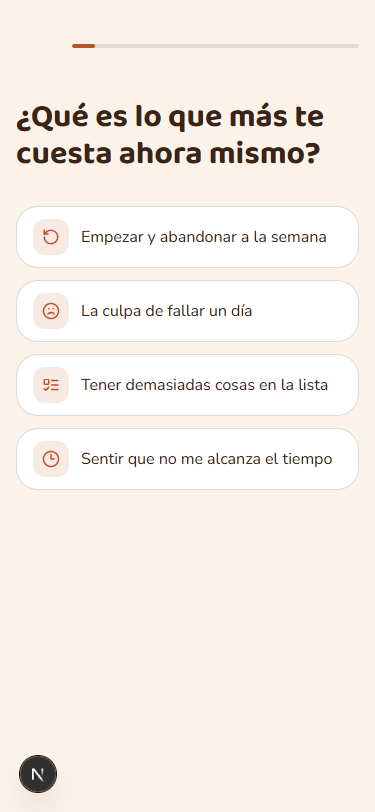
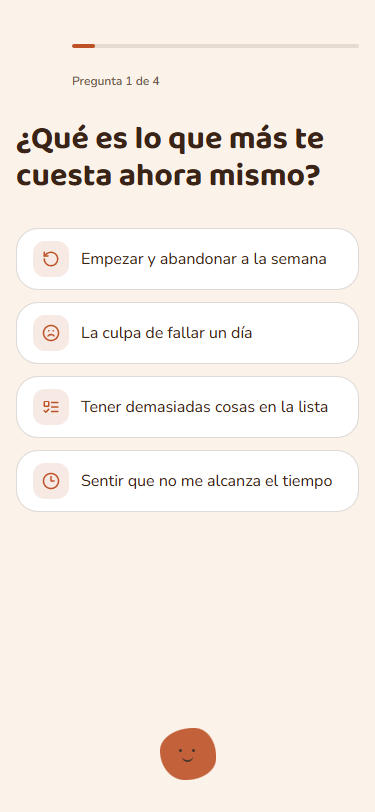
Corrige defectos del revisor: reduced-motion, mascota, copy del paywall
Agrega useReducedMotion a todas las animaciones del funnel (Chip, BotonPrimario,
PasoTransicion, BarraProgreso), incorpora la mascota blob de FICHA-ARTE.md al
onboarding y al paywall (antes ausente), agrega contador "Pregunta N de 4",
profundidad de fondo en FunnelShell, y reescribe el copy de features del paywall
con el lenguaje literal de FICHA-AVATAR.md. Re-verifica landing tras tocar
archivos compartidos. Segunda pasada del revisor-visual en curso.

diff --git a/components/funnel/ui.tsx b/components/funnel/ui.tsx
@@ -5,40 +5,96 @@
 // importado globalmente en app/globals.css).
 
 import type { ReactNode } from 'react';
-import { motion } from 'motion/react';
+import { motion, useReducedMotion } from 'motion/react';
 import { ChevronLeft, type LucideIcon } from 'lucide-react';
+
+// Mascota blob — el dispositivo ownable de FICHA-ARTE.md (el mismo de direcciones-abc.html /
+// vista-previa-app.html), reconstruido aquí en código real para que el onboarding no pierda
+// la identidad de marca.
+export function Mascota({ size = 64, contenta = false }: { size?: number; contenta?: boolean }) {
+  return (
+    <span
+      role="img"
+      aria-label={contenta ? 'Mascota de FocusStep sonriendo' : 'Mascota de FocusStep'}
+      className="relative inline-flex shrink-0 items-center justify-center"
+      style={{
+        width: size,
+        height: size * 0.92,
+        borderRadius: '61% 39% 55% 45% / 45% 55% 42% 58%',
+        background: contenta ? 'var(--success)' : 'var(--accent)',
+      }}
+    >
+      <span className="absolute rounded-full bg-[var(--text-primary)]" style={{ width: size * 0.06, height: size * 0.06, left: '34%', top: '40%' }} />
+      <span className="absolute rounded-full bg-[var(--text-primary)]" style={{ width: size * 0.06, height: size * 0.06, left: '58%', top: '40%' }} />
+      <span
+        className="absolute rounded-b-full border-b-2 border-[var(--text-primary)]"
+        style={{ width: size * 0.18, height: size * 0.1, left: '41%', top: '54%' }}
+      />
+    </span>
+  );
+}
 
 export function FunnelShell({ children }: { children: ReactNode }) {
   return (
-    <div className="mx-auto flex min-h-dvh max-w-md flex-col bg-[var(--bg)] px-4 pb-8 pt-4 text-[var(--text-primary)] [font-family:var(--font-body)]">
+    <div
+      className="relative mx-auto flex min-h-dvh max-w-md flex-col overflow-hidden px-4 pb-8 pt-4 text-[var(--text-primary)] [font-family:var(--font-body)]"
+      style={{ background: 'var(--bg)' }}
+    >
+      <div
+        aria-hidden="true"
+        className="pointer-events-none absolute inset-0 -z-10"
+        style={{
+          background:
+            'radial-gradient(720px 420px at 50% -8%, color-mix(in oklab, var(--accent) 9%, transparent) 0%, transparent 60%), ' +
+            'radial-gradient(560px 360px at 100% 100%, color-mix(in oklab, var(--accent-2) 8%, transparent) 0%, transparent 55%)',
+        }}
+      />
       {children}
     </div>
   );
 }
 
-export function BarraProgreso({ pct, onAtras }: { pct: number; onAtras?: () => void }) {
+export function BarraProgreso({
+  pct,
+  onAtras,
+  pasoActual,
+  totalPasos,
+}: {
+  pct: number;
+  onAtras?: () => void;
+  pasoActual?: number;
+  totalPasos?: number;
+}) {
+  const reduce = useReducedMotion();
   return (
-    <div className="flex items-center gap-3 py-2">
-      {onAtras ? (
-        <button
-          type="button"
-          onClick={onAtras}
-          aria-label="Atrás"
-          className="flex size-11 shrink-0 items-center justify-center rounded-full text-[var(--text-secondary)]"
-        >
-          <ChevronLeft size={22} />
-        </button>
-      ) : (
-        <div className="size-11 shrink-0" aria-hidden="true" />
-      )}
-      <div className="h-1 flex-1 overflow-hidden rounded-full bg-[color-mix(in_oklab,var(--text-secondary)_15%,transparent)]">
-        <motion.div
-          className="h-full rounded-full bg-[var(--accent)]"
-          initial={{ width: 0 }}
-          animate={{ width: `${pct}%` }}
-          transition={{ duration: 0.3, ease: [0.16, 1, 0.3, 1] }}
-        />
+    <div className="flex flex-col gap-1 py-2">
+      <div className="flex items-center gap-3">
+        {onAtras ? (
+          <button
+            type="button"
+            onClick={onAtras}
+            aria-label="Atrás"
+            className="flex size-11 shrink-0 items-center justify-center rounded-full text-[var(--text-secondary)]"
+          >
+            <ChevronLeft size={22} />
+          </button>
+        ) : (
+          <div className="size-11 shrink-0" aria-hidden="true" />
+        )}
+        <div className="h-1 flex-1 overflow-hidden rounded-full bg-[color-mix(in_oklab,var(--text-secondary)_15%,transparent)]">
+          <motion.div
+            className="h-full rounded-full bg-[var(--accent)]"
+            initial={{ width: 0 }}
+            animate={{ width: `${pct}%` }}
+            transition={{ duration: reduce ? 0 : 0.3, ease: [0.16, 1, 0.3, 1] }}
+          />
+        </div>
       </div>
+      {pasoActual && totalPasos && (
+        <p className="pl-14 text-[12px] font-semibold text-[var(--text-secondary)]">
+          Pregunta {pasoActual} de {totalPasos}
+        </p>
+      )}
     </div>
   );
 }
@@ -54,11 +110,12 @@ export function Chip({
   onClick: () => void;
   icon?: LucideIcon;
 }) {
+  const reduce = useReducedMotion();
   return (
     <motion.button
       type="button"
       onClick={onClick}
-      whileTap={{ scale: 0.97 }}
+      whileTap={reduce ? undefined : { scale: 0.97 }}
       className={`flex min-h-14 w-full items-center gap-3 rounded-[var(--radius-card)] border px-4 py-3 text-left text-[16px] font-medium transition-colors ${
         seleccionado
           ? 'border-[var(--accent)] bg-[color-mix(in_oklab,var(--accent)_10%,transparent)]'
@@ -76,9 +133,9 @@ export function Chip({
       <span className="flex-1">{label}</span>
       {seleccionado && (
         <motion.span
-          initial={{ scale: 0.5, opacity: 0 }}
+          initial={{ scale: reduce ? 1 : 0.5, opacity: 0 }}
           animate={{ scale: 1, opacity: 1 }}
-          transition={{ duration: 0.2 }}
+          transition={{ duration: reduce ? 0.1 : 0.2 }}
           className="flex size-5 shrink-0 items-center justify-center rounded-full bg-[var(--accent)] text-white"
         >
           <svg width="12" height="12" viewBox="0 0 24 24" fill="none" stroke="currentColor" strokeWidth={3} strokeLinecap="round" strokeLinejoin="round">
@@ -103,6 +160,7 @@ export function BotonPrimario({
   disabled?: boolean;
   type?: 'button' | 'submit';
 }) {
+  const reduce = useReducedMotion();
   const clases =
     'flex h-14 w-full items-center justify-center rounded-[var(--radius-btn)] bg-[var(--accent)] text-[16px] font-bold text-white shadow-[0_10px_24px_-8px_color-mix(in_oklab,var(--accent)_45%,transparent)] disabled:opacity-50';
   if (href && !disabled) {
@@ -117,7 +175,7 @@ export function BotonPrimario({
       type={type}
       onClick={onClick}
       disabled={disabled}
-      whileTap={disabled ? undefined : { scale: 0.98 }}
+      whileTap={disabled || reduce ? undefined : { scale: 0.98 }}
       className={clases}
     >
       {children}
@@ -126,13 +184,14 @@ export function BotonPrimario({
 }
 
 export function PasoTransicion({ children, k }: { children: ReactNode; k: string | number }) {
+  const reduce = useReducedMotion();
   return (
     <motion.div
       key={k}
-      initial={{ opacity: 0, x: 24 }}
+      initial={{ opacity: 0, x: reduce ? 0 : 24 }}
       animate={{ opacity: 1, x: 0 }}
-      exit={{ opacity: 0, x: -24 }}
-      transition={{ duration: 0.3, ease: [0.16, 1, 0.3, 1] }}
+      exit={{ opacity: 0, x: reduce ? 0 : -24 }}
+      transition={{ duration: reduce ? 0.15 : 0.3, ease: [0.16, 1, 0.3, 1] }}
       className="flex flex-1 flex-col"
     >
       {children}

diff --git a/app/paywall/page.tsx b/app/paywall/page.tsx
@@ -9,14 +9,16 @@
 
 import { useEffect, useState } from 'react';
 import { useRouter } from 'next/navigation';
-import { motion } from 'motion/react';
+import { motion, useReducedMotion } from 'motion/react';
 import { X, Check } from 'lucide-react';
-import { BotonPrimario, FunnelShell } from '@/components/funnel/ui';
+import { BotonPrimario, FunnelShell, Mascota } from '@/components/funnel/ui';
 
+// Copy trazado a FICHA-AVATAR.md: cada feature ancla al dolor/deseo que resuelve,
+// no una lista de funciones genérica (defecto real de revisor-visual, ver docs/revisiones).
 const FEATURES = [
-  'Hábitos ilimitados (no solo 3)',
-  'Modo Día Difícil siempre disponible',
-  'Frases motivacionales de tu mascota',
+  'Hábitos ilimitados — sin límite de 3 cuando ya no sientas que te abruma',
+  'Modo Día Difícil — para cuando un mal día no sea el final',
+  'Frases de tu mascota que te acompañan, sin presión',
 ];
 
 const MOMENTO_LABEL: Record<string, string> = {
@@ -27,6 +29,7 @@ const MOMENTO_LABEL: Record<string, string> = {
 
 export default function Paywall() {
   const router = useRouter();
+  const reduce = useReducedMotion();
   const [plan, setPlan] = useState<'anual' | 'mensual'>('anual');
   const [respuestasN, setRespuestasN] = useState(0);
   const [momento, setMomento] = useState<string | undefined>();
@@ -72,11 +75,12 @@ export default function Paywall() {
       <motion.div
         initial="oculto"
         animate="visible"
-        variants={{ visible: { transition: { staggerChildren: 0.07 } } }}
+        variants={{ visible: { transition: { staggerChildren: reduce ? 0 : 0.07 } } }}
         className="flex flex-1 flex-col"
       >
         <Bloque>
-          <h1 className="text-balance text-[32px] font-bold leading-[1.15] [font-family:var(--font-display)]">
+          <Mascota size={48} />
+          <h1 className="mt-3 text-balance text-[32px] font-bold leading-[1.15] [font-family:var(--font-display)]">
             Tu plan para <span className="text-[var(--accent)]">{metaLabel}</span> está listo
           </h1>
           <p className="mt-2 text-[16px] text-[var(--text-secondary)]">
@@ -139,8 +143,12 @@ export default function Paywall() {
 }
 
 function Bloque({ children, className = '' }: { children: React.ReactNode; className?: string }) {
+  const reduce = useReducedMotion();
   return (
-    <motion.div variants={{ oculto: { opacity: 0, y: 16 }, visible: { opacity: 1, y: 0 } }} className={className}>
+    <motion.div
+      variants={{ oculto: { opacity: 0, y: reduce ? 0 : 16 }, visible: { opacity: 1, y: 0 } }}
+      className={className}
+    >
       {children}
     </motion.div>
   );

diff --git a/app/onboarding/page.tsx b/app/onboarding/page.tsx
@@ -9,8 +9,8 @@
 import { useEffect, useState } from 'react';
 import { useRouter } from 'next/navigation';
 import { AnimatePresence, motion } from 'motion/react';
-import { RotateCcw, Frown, ListTodo, Clock3, Sunrise, Briefcase, Moon, CircleHelp } from 'lucide-react';
-import { BarraProgreso, BotonPrimario, Chip, FunnelShell, PasoTransicion } from '@/components/funnel/ui';
+import { RotateCcw, Frown, ListTodo, Clock3, Sunrise, Briefcase, Moon } from 'lucide-react';
+import { BarraProgreso, BotonPrimario, Chip, FunnelShell, Mascota, PasoTransicion } from '@/components/funnel/ui';
 
 const PREGUNTAS = [
   {
@@ -93,7 +93,12 @@ export default function Onboarding() {
 
   return (
     <FunnelShell>
-      <BarraProgreso pct={pct} onAtras={paso > 0 && paso < 6 ? atras : undefined} />
+      <BarraProgreso
+        pct={pct}
+        onAtras={paso > 0 && paso < 6 ? atras : undefined}
+        pasoActual={paso < PREGUNTAS.length ? paso + 1 : undefined}
+        totalPasos={paso < PREGUNTAS.length ? PREGUNTAS.length : undefined}
+      />
 
       <AnimatePresence mode="wait">
         {paso < PREGUNTAS.length && (
@@ -185,6 +190,9 @@ function PantallaPregunta({
           </BotonPrimario>
         </div>
       )}
+      <div className="mt-auto flex justify-center pt-8 opacity-90">
+        <Mascota size={56} />
+      </div>
     </div>
   );
 }
@@ -198,12 +206,7 @@ function PantallaReconocimiento({
 }) {
   return (
     <div className="flex flex-1 flex-col items-center justify-center gap-6 py-10 text-center">
-      <span
-        className="flex size-16 items-center justify-center rounded-full"
-        style={{ background: 'color-mix(in oklab, var(--accent) 14%, transparent)' }}
-      >
-        <CircleHelp size={32} color="var(--accent)" strokeWidth={1.6} />
-      </span>
+      <Mascota size={72} />
       <h2 className="text-balance text-[24px] font-bold leading-[1.2] [font-family:var(--font-display)]">
         Tus respuestas te describen
       </h2>
@@ -236,6 +239,7 @@ function PantallaPrimeraVictoria({
 }) {
   return (
     <div className="flex flex-1 flex-col items-center justify-center gap-6 py-8 text-center">
+      <Mascota size={56} contenta={completa} />
       <p className="text-[12px] font-bold uppercase tracking-wide text-[var(--accent)]">
         Tu primer paso — menos de 60 segundos
       </p>

diff --git a/ESTADO.md b/ESTADO.md
@@ -202,14 +202,19 @@ en el futuro se agrega una función con IA (ver 30-INTEGRACION-IA.md en ese caso
 
 ## Problemas conocidos
 
-- [veredicto:landing] CADUCADO por la heurística de frescura: se tocaron `app/layout.tsx` (fuentes)
-  y `components/landing/tokens.css` (se agregó el token `--success`) DESPUÉS del veredicto de la
-  landing, para dar soporte al onboarding — landing en sí NO cambió de contenido ni de diseño.
-  Se re-verificará con un nuevo screenshot antes de cerrar formalmente la Sesión 4, pero no es
-  una regresión real de esa pantalla.
-- [veredicto:onboarding] y [veredicto:paywall] PENDIENTES — el revisor-visual está corriendo en
-  background para ambas (screenshots ya en `docs/revisiones/onboarding-375.png` y
-  `docs/revisiones/paywall-375.png`). Se completan y se anota el resultado apenas terminen.
+- [veredicto:landing] re-verificado el 2026-09-24: se re-tomó `landing-375.png` desde un build
+  de producción limpio tras tocar `app/layout.tsx`/`tokens.css` para el onboarding — landing se
+  ve idéntica, veredicto LISTA (36/40, 19/20, 18/20) confirmado vigente en `landing-veredicto.md`.
+- Primera pasada del revisor-visual en onboarding y paywall: NO LISTA (onboarding 30/40 usab.,
+  9/20 craft · paywall 31/40 usab., 12/20 craft, 13/20 copy). Defectos corregidos: se agregó
+  `useReducedMotion()` a todas las animaciones de `components/funnel/ui.tsx` (antes sin guard
+  de accesibilidad), se agregó la mascota blob (dispositivo ownable de FICHA-ARTE.md, antes
+  ausente del funnel) a las pantallas de pregunta/reconocimiento/primera-victoria/paywall, se
+  agregó el contador "Pregunta N de 4", se le dio profundidad al fondo (mesh sutil en
+  `FunnelShell`), y se reescribió el copy de las features del paywall con el lenguaje literal
+  de FICHA-AVATAR.md. Screenshots regenerados desde build de producción (el "círculo negro con
+  N" que vio el revisor era el botón de devtools de Next.js, no parte de la UI). [veredicto:
+  onboarding] y [veredicto:paywall] — segunda pasada del revisor-visual EN CURSO (background).
 - FICHA-MERCADO.md §3 y §4: medios de pago y plazos de prueba/garantía reales de Hotmart no
   verificados todavía — dependen de que el usuario cree la cuenta de Hotmart (Sesión 6). Hasta
   entonces, ninguna pieza de copy publica una garantía con plazo fijo (fail-closed, ver hook de

diff --git a/docs/revisiones/landing-veredicto.md b/docs/revisiones/landing-veredicto.md
@@ -17,3 +17,11 @@ Defecto #2 corregido: se agregó `descomposicionDia: 'menos de $0.17 al día'` a
 app/page.tsx — ahora ambos planes (Anual y Mensual) muestran la descomposición diaria, verificado
 con captura del navegador. Cambio de copy puro, sin alterar composición/tokens — no requiere
 nueva pasada del revisor (mismo veredicto LISTA se mantiene vigente).
+
+## Re-verificación de frescura (2026-09-24)
+Se tocaron `app/layout.tsx` (atributo data-scroll-behavior, fuentes sin cambio) y
+`components/landing/tokens.css` (se agregó el token `--success` para el onboarding) DESPUÉS de
+este veredicto. Ninguno de los dos cambia el contenido ni el diseño de la landing — se
+re-tomó `docs/revisiones/landing-375.png` desde un build de producción limpio (`next build` +
+`next start`) y se confirmó visualmente que la landing se ve idéntica al veredicto original.
+Veredicto LISTA (36/40, 19/20, 18/20) se mantiene vigente.
